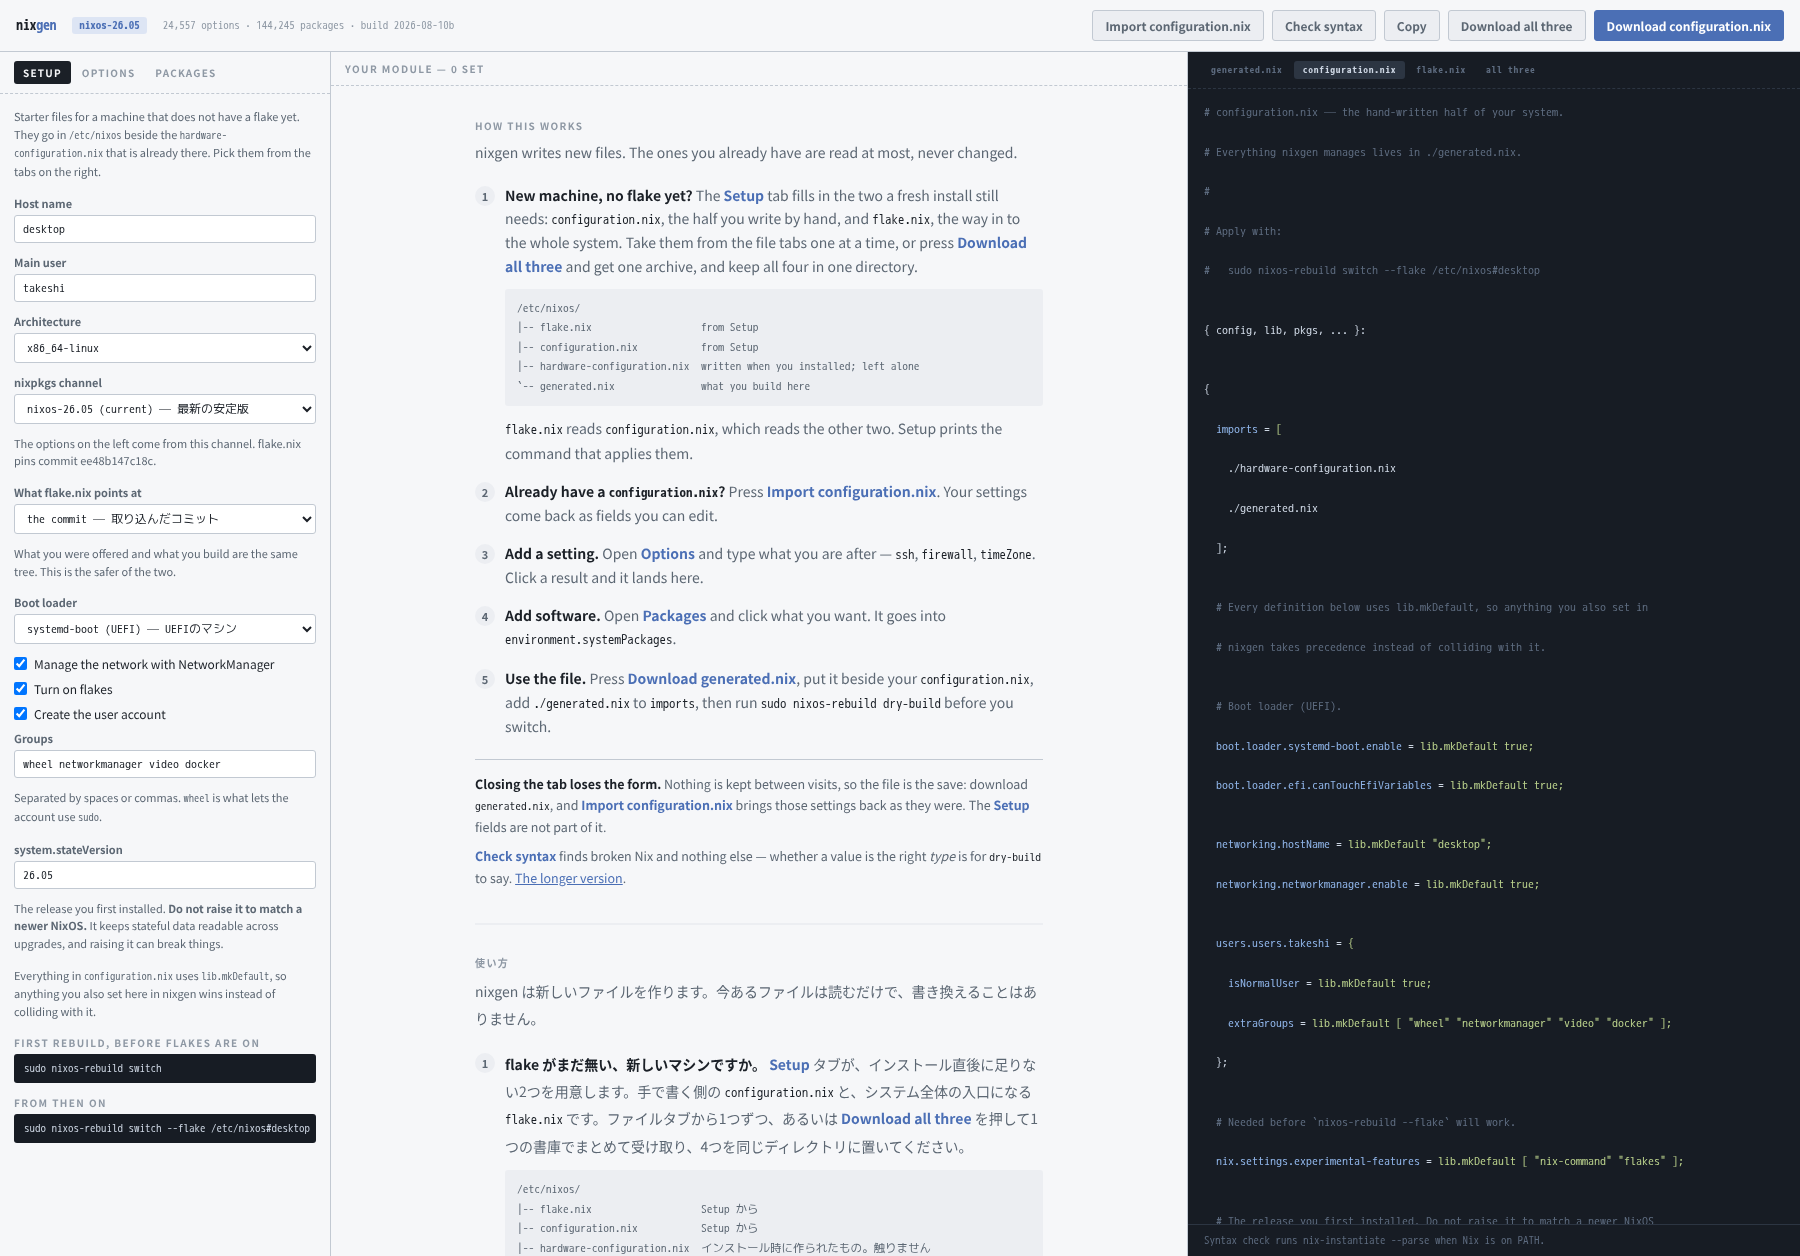
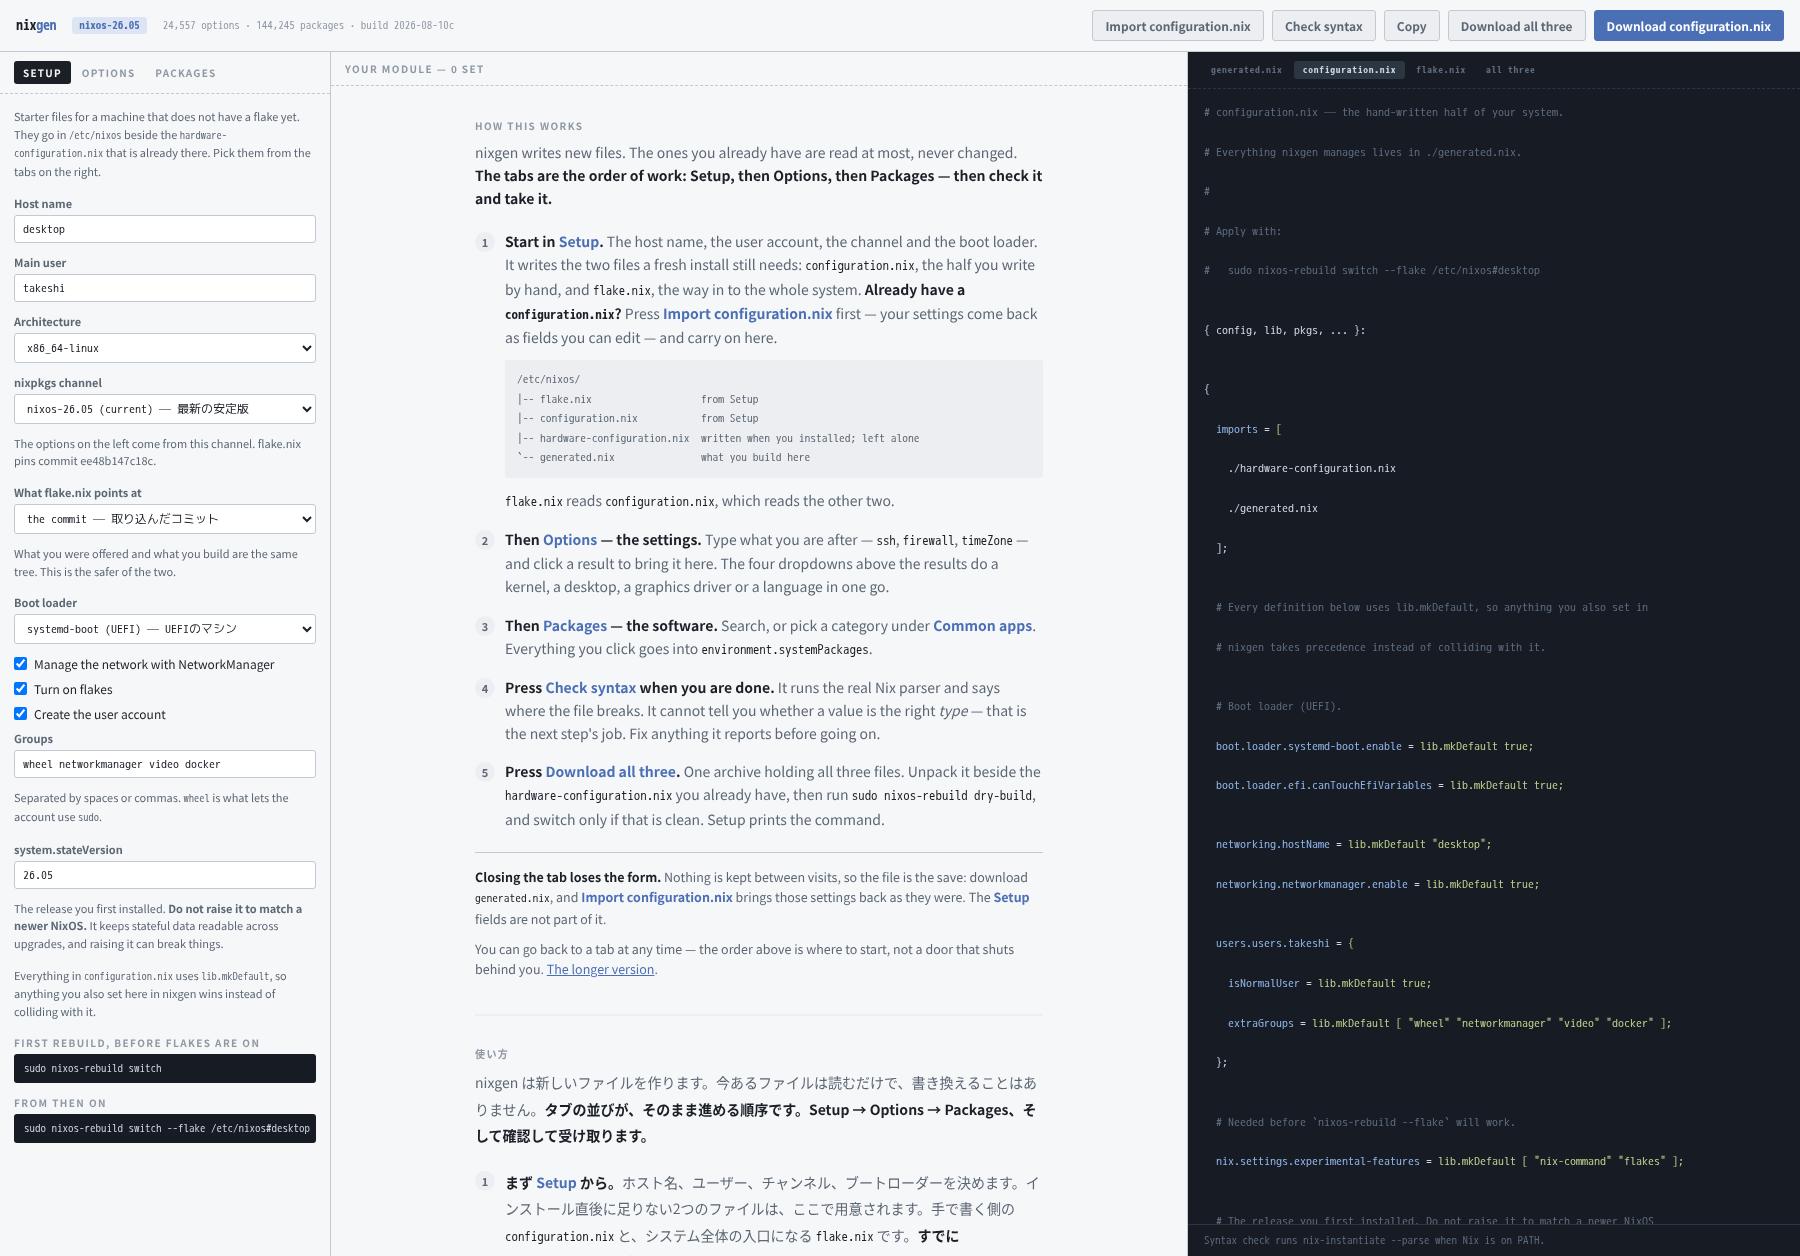
Make the five steps the order to work in
Setup, Options, Packages, Check syntax, Download all three. They were
grouped by subject before, with importing an existing file as its own
step in the middle — which reads fine and answers the wrong question,
since the first thing anyone wants to know is which one to do first.

Importing is now a branch of step one, and checking earned a step rather
than a footnote under the list. The lede says the same in one line, and
the note underneath says you can still go back to any tab whenever.

Changed region(s): [[0.2489, 0.1242, 0.5911, 0.8073], [0.2489, 0.8384, 0.5911, 1.0], [0.5289, 0.7452, 0.56, 0.7763]]

diff --git a/build/static/index.html b/build/static/index.html
@@ -224,18 +224,27 @@
         <div id="howto">
           <p class="eyebrow">How this works</p>
           <p class="lede">nixgen writes new files. The ones you already have are
-             read at most, never changed.</p>
+             read at most, never changed. <b>The tabs are the order of work:
+             Setup, then Options, then Packages — then check it and take
+             it.</b></p>
           <!-- Named by their labels rather than by where they sit: the panes
                stack and swap on a narrow screen, and "on the left" would then
-               be wrong in the one place a first-timer cannot afford it. -->
+               be wrong in the one place a first-timer cannot afford it.
+
+               The five steps are the five tabs and buttons in the order they
+               are meant to be used. They were once grouped by subject, with
+               importing an existing file as its own step in the middle, and
+               the question that left unanswered was the first one anybody
+               has: which of these do I do first. -->
           <ol>
-            <li><b>New machine, no flake yet?</b> The <b class="w">Setup</b> tab
-              fills in the two a fresh install still needs:
-              <code>configuration.nix</code>, the half you write by hand, and
-              <code>flake.nix</code>, the way in to the whole system. Take them
-              from the file tabs one at a time, or press
-              <b class="w">Download all three</b> and get one archive, and keep
-              all four in one directory.
+            <li><b>Start in <b class="w">Setup</b>.</b> The host name, the user
+              account, the channel and the boot loader. It writes the two files
+              a fresh install still needs: <code>configuration.nix</code>, the
+              half you write by hand, and <code>flake.nix</code>, the way in to
+              the whole system.
+              <b>Already have a <code>configuration.nix</code>?</b> Press
+              <b class="w">Import configuration.nix</b> first — your settings
+              come back as fields you can edit — and carry on here.
               <!-- ASCII rather than box drawing: the mono stack falls back to
                    a proportional face for those glyphs on some machines, and a
                    tree that does not line up is worse than no tree. -->
@@ -245,20 +254,24 @@
 |-- hardware-configuration.nix  written when you installed; left alone
 `-- generated.nix               what you build here</pre>
               <code>flake.nix</code> reads <code>configuration.nix</code>, which
-              reads the other two. Setup prints the command that applies
-              them.</li>
-            <li><b>Already have a <code>configuration.nix</code>?</b> Press
-              <b class="w">Import configuration.nix</b>. Your settings come back
-              as fields you can edit.</li>
-            <li><b>Add a setting.</b> Open <b class="w">Options</b> and type what you
-              are after — <code>ssh</code>, <code>firewall</code>,
-              <code>timeZone</code>. Click a result and it lands here.</li>
-            <li><b>Add software.</b> Open <b class="w">Packages</b> and click what you
-              want. It goes into <code>environment.systemPackages</code>.</li>
-            <li><b>Use the file.</b> Press <b class="w">Download generated.nix</b>, put
-              it beside your <code>configuration.nix</code>, add
-              <code>./generated.nix</code> to <code>imports</code>, then run
-              <code>sudo nixos-rebuild dry-build</code> before you switch.</li>
+              reads the other two.</li>
+            <li><b>Then <b class="w">Options</b> — the settings.</b> Type what
+              you are after — <code>ssh</code>, <code>firewall</code>,
+              <code>timeZone</code> — and click a result to bring it here. The
+              four dropdowns above the results do a kernel, a desktop, a
+              graphics driver or a language in one go.</li>
+            <li><b>Then <b class="w">Packages</b> — the software.</b> Search, or
+              pick a category under <b class="w">Common apps</b>. Everything you
+              click goes into <code>environment.systemPackages</code>.</li>
+            <li><b>Press <b class="w">Check syntax</b> when you are done.</b> It
+              runs the real Nix parser and says where the file breaks. It cannot
+              tell you whether a value is the right <i>type</i> — that is the
+              next step's job. Fix anything it reports before going on.</li>
+            <li><b>Press <b class="w">Download all three</b>.</b> One archive
+              holding all three files. Unpack it beside the
+              <code>hardware-configuration.nix</code> you already have, then run
+              <code>sudo nixos-rebuild dry-build</code>, and switch only if that
+              is clean. Setup prints the command.</li>
           </ol>
           <div class="after">
             <p><b>Closing the tab loses the form.</b> Nothing is kept between
@@ -266,9 +279,8 @@
               <code>generated.nix</code>, and <b class="w">Import
               configuration.nix</b> brings those settings back as they were.
               The <b class="w">Setup</b> fields are not part of it.</p>
-            <p><b class="w">Check syntax</b> finds broken Nix and nothing else —
-              whether a value is the right <i>type</i> is for
-              <code>dry-build</code> to say.
+            <p>You can go back to a tab at any time — the order above is where
+              to start, not a door that shuts behind you.
               <a href="https://hatake716.github.io/nixgen/" target="_blank"
                  rel="noreferrer">The longer version</a>.</p>
           </div>
@@ -283,23 +295,23 @@
                English above is wrapped puts gaps in the middle of sentences. -->
           <div class="ja">
             <p class="eyebrow">使い方</p>
-            <p class="lede">nixgen は新しいファイルを作ります。今あるファイルは読むだけで、書き換えることはありません。</p>
+            <p class="lede">nixgen は新しいファイルを作ります。今あるファイルは読むだけで、書き換えることはありません。<b>タブの並びが、そのまま進める順序です。Setup → Options → Packages、そして確認して受け取ります。</b></p>
             <ol>
-              <li><b>flake がまだ無い、新しいマシンですか。</b> <b class="w">Setup</b> タブが、インストール直後に足りない2つを用意します。手で書く側の <code>configuration.nix</code> と、システム全体の入口になる <code>flake.nix</code> です。ファイルタブから1つずつ、あるいは <b class="w">Download all three</b> を押して1つの書庫でまとめて受け取り、4つを同じディレクトリに置いてください。
+              <li><b>まず <b class="w">Setup</b> から。</b>ホスト名、ユーザー、チャンネル、ブートローダーを決めます。インストール直後に足りない2つのファイルは、ここで用意されます。手で書く側の <code>configuration.nix</code> と、システム全体の入口になる <code>flake.nix</code> です。<b>すでに <code>configuration.nix</code> がある場合は</b>、先に <b class="w">Import configuration.nix</b> を押してください。今の設定が編集できる入力欄として戻ってくるので、そのままここから続けます。
                 <pre class="tree">/etc/nixos/
 |-- flake.nix                   Setup から
 |-- configuration.nix           Setup から
 |-- hardware-configuration.nix  インストール時に作られたもの。触りません
 `-- generated.nix               ここで作るファイル</pre>
-                <code>flake.nix</code> が <code>configuration.nix</code> を読み、そこから残りの2つを読みます。適用するコマンドは Setup が表示します。</li>
-              <li><b>すでに <code>configuration.nix</code> がありますか。</b> <b class="w">Import configuration.nix</b> を押してください。今の設定が、編集できる入力欄として戻ってきます。</li>
-              <li><b>設定を足す。</b> <b class="w">Options</b> を開いて、探しているものを入力します — <code>ssh</code>、<code>firewall</code>、<code>timeZone</code> など。結果をクリックすると、ここに入ります。</li>
-              <li><b>ソフトを足す。</b> <b class="w">Packages</b> を開いて、欲しいものをクリックします。<code>environment.systemPackages</code> に入ります。</li>
-              <li><b>できたファイルを使う。</b> <b class="w">Download generated.nix</b> を押し、<code>configuration.nix</code> の隣に置いて、<code>imports</code> に <code>./generated.nix</code> を足します。切り替える前に、<code>sudo nixos-rebuild dry-build</code> で確かめてください。</li>
+                <code>flake.nix</code> が <code>configuration.nix</code> を読み、そこから残りの2つを読みます。</li>
+              <li><b>次に <b class="w">Options</b> — 設定項目です。</b>探しているものを入力します — <code>ssh</code>、<code>firewall</code>、<code>timeZone</code> など。結果をクリックすると、ここに入ります。結果の上にある4つのプルダウンでは、カーネル・デスクトップ・グラフィックス・言語がひと通り揃います。</li>
+              <li><b>次に <b class="w">Packages</b> — ソフトウェアです。</b>検索するか、<b class="w">Common apps</b> の分野から選びます。クリックしたものは <code>environment.systemPackages</code> に入ります。</li>
+              <li><b>ひと通り終えたら <b class="w">Check syntax</b> を押します。</b>本物の Nix のパーサーを通し、どこで壊れているかを伝えます。値の<i>型</i>が正しいかどうかまでは分かりません。それは次の手順の役目です。ここで指摘が出たら、直してから先に進んでください。</li>
+              <li><b><b class="w">Download all three</b> を押します。</b>3つのファイルが1つの書庫で出てきます。既にある <code>hardware-configuration.nix</code> の隣に展開し、<code>sudo nixos-rebuild dry-build</code> を実行してください。<b>問題が無いときだけ</b>切り替えます。コマンドは Setup に表示されています。</li>
             </ol>
             <div class="after">
               <p><b>タブを閉じると、入力した内容は消えます。</b>何も保存していないので、保存にあたるのはファイルです。<code>generated.nix</code> をダウンロードしておけば、<b class="w">Import configuration.nix</b> で元のとおりに戻せます。<b class="w">Setup</b> の入力欄はこれに含まれません。</p>
-              <p><b class="w">Check syntax</b> が見るのは Nix の文法だけです。値が正しい<i>型</i>かどうかは <code>dry-build</code> が答えます。<a href="https://hatake716.github.io/nixgen/" target="_blank" rel="noreferrer">詳しい説明</a>。</p>
+              <p>タブはいつでも戻れます。上の順序は<b>どこから始めるか</b>の話で、一度離れたら戻れないわけではありません。<a href="https://hatake716.github.io/nixgen/" target="_blank" rel="noreferrer">詳しい説明</a>。</p>
             </div>
           </div>
         </div>

diff --git a/build/static/app.js b/build/static/app.js
@@ -2,7 +2,7 @@
 
 /* Shown in the header. Bump it whenever this file changes, so "the fix did not
    work" can be told apart from "the old file is still being served". */
-const BUILD = '2026-08-10b';
+const BUILD = '2026-08-10c';
 
 const $  = (s, r = document) => r.querySelector(s);
 const $$ = (s, r = document) => [...r.querySelectorAll(s)];

diff --git a/CHANGELOG.md b/CHANGELOG.md
@@ -9,6 +9,19 @@ option counts.
 
 ## English
 
+### build 2026-08-10c
+
+- **The five steps are the order to work in now**: Setup, then Options, then
+  Packages, then **Check syntax**, then **Download all three**. They were
+  grouped by subject before, with importing an existing file as a step of its
+  own in the middle, and that left the first question anybody has unanswered —
+  which of these do I do first.
+- **Checking has a step of its own**, between adding things and taking them
+  away. It was a footnote under the list, which is not where a step belongs.
+- The lede says the same thing in one line, for anyone who reads no further,
+  and the note underneath says you can still go back to any tab whenever you
+  like.
+
 ### build 2026-08-10b
 
 - **Cinnamon's and COSMIC's own apps are in the categories now** — 19 more,
@@ -434,6 +447,12 @@ three of these six showed up in only one of the two.
 ---
 
 ## 日本語
+
+### build 2026-08-10c
+
+- **5つの手順を、そのまま進める順序に組み替えました。** Setup → Options → Packages → **Check syntax** → **Download all three** です。以前は内容ごとの分類で、既存ファイルの読み込みが**途中に独立した手順として**入っていました。そのため、**誰もが最初に持つ疑問**(どれから手を付けるのか)に答えられていませんでした。
+- **確認にも独立した手順を与えました。** 追加する作業と、持ち出す作業の間です。それまでは一覧の下の補足で、**手順の置き場所ではありませんでした。**
+- 冒頭の1行にも同じことを書きました。先を読まない人のためです。一覧の下には、**タブにはいつでも戻れる**ことも書き添えてあります。
 
 ### build 2026-08-10b
 

diff --git a/README.ja.md b/README.ja.md
@@ -201,7 +201,15 @@ rm -rf ~/.local/share/nixgen
 
 ## 使い方
 
-起動すると、画面中央に**5つの手順**が出ます。スターターファイル、既存の設定の読み込み、設定項目の追加、ソフトウェアの追加、出来たファイルの使い方です。何か1つ設定を足すと、その場所が設定の一覧に変わります。以下はその詳しい版です。
+起動すると、画面中央に**5つの手順**が出ます。これがそのまま**進める順序**です。
+
+1. **Setup** — マシンそのものと、2つのスターターファイル。すでに `configuration.nix` がある場合は、先に **Import configuration.nix** を押します
+2. **Options** — 設定項目
+3. **Packages** — ソフトウェア
+4. **Check syntax** — 指摘が出たら直します
+5. **Download all three** — 切り替える前に `sudo nixos-rebuild dry-build`
+
+タブにはいつでも戻れます。この順序は**どこから始めるか**の話で、一度離れたら戻れないわけではありません。何か1つ設定を足すと、手順が出ていた場所は設定の一覧に変わります。以下はその詳しい版です。
 
 ### 探す
 

diff --git a/CLAUDE.md b/CLAUDE.md
@@ -201,6 +201,14 @@ at `nixos-rebuild`, which is the least helpful place for it to surface.
   what clears them. They name the tabs and buttons rather than where things sit
   — the panes stack and swap on a narrow screen, and "on the left" would be
   wrong exactly where a first-timer cannot afford it.
+- **The five steps are five things to do in order, not five subjects.** Setup,
+  Options, Packages, Check syntax, Download all three — the tabs and buttons in
+  the order they are used. They were once grouped by subject, with importing an
+  existing file as its own step in the middle; that reads fine and answers the
+  wrong question, because the first thing anyone wants to know is which one to
+  do first. Importing is a branch of step one, and checking earned a step of
+  its own rather than a footnote under the list. A new step goes in the place
+  it is performed, or it is not a step.
 - **The archive is a `.tar.gz` inside a directory, and both halves matter.**
   `tar` and `gzip` are in the NixOS default system path and `unzip` is not, so
   a zip would send someone looking for a package before they could read what

diff --git a/README.md b/README.md
@@ -233,10 +233,20 @@ tab says how much it is taking and offers to remove it.
 
 ## Using it
 
-Opening it puts **five steps** in the middle of the screen: the starter files,
-reading in a configuration you already have, adding a setting, adding software,
-and what to do with the file afterwards. Add anything and that panel becomes
-the thing you added. What follows is the longer version.
+Opening it puts **five steps** in the middle of the screen, and they are the
+order to work in:
+
+1. **Setup** — the machine itself, and the two starter files. Already have a
+   `configuration.nix`? **Import configuration.nix** first.
+2. **Options** — the settings.
+3. **Packages** — the software.
+4. **Check syntax** — fix whatever it reports.
+5. **Download all three** — then `sudo nixos-rebuild dry-build` before you
+   switch.
+
+You can go back to any tab at any time; the order is where to start, not a door
+that shuts behind you. Add anything and that panel becomes the thing you added.
+What follows is the longer version.
 
 ### Finding things
 
